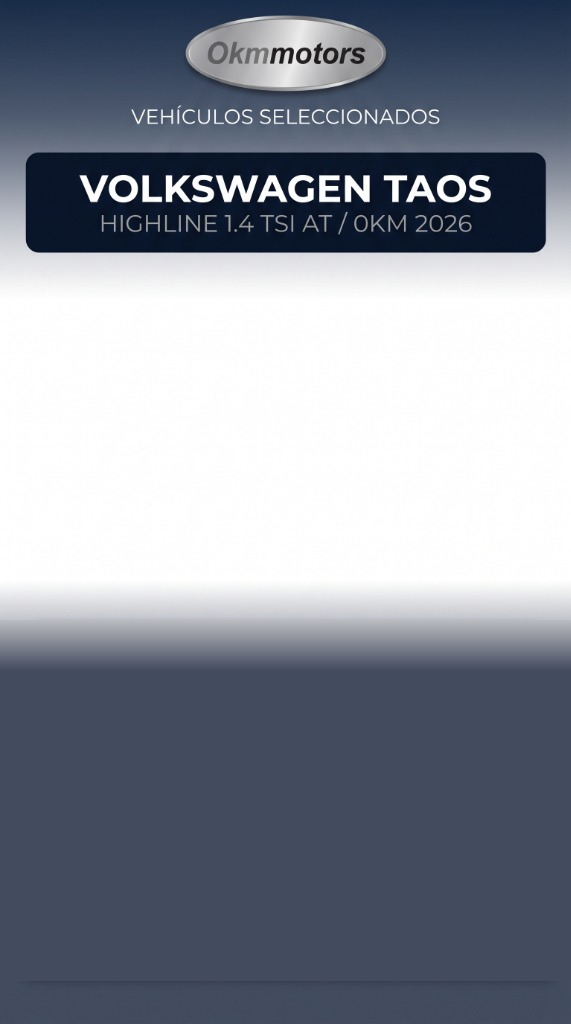
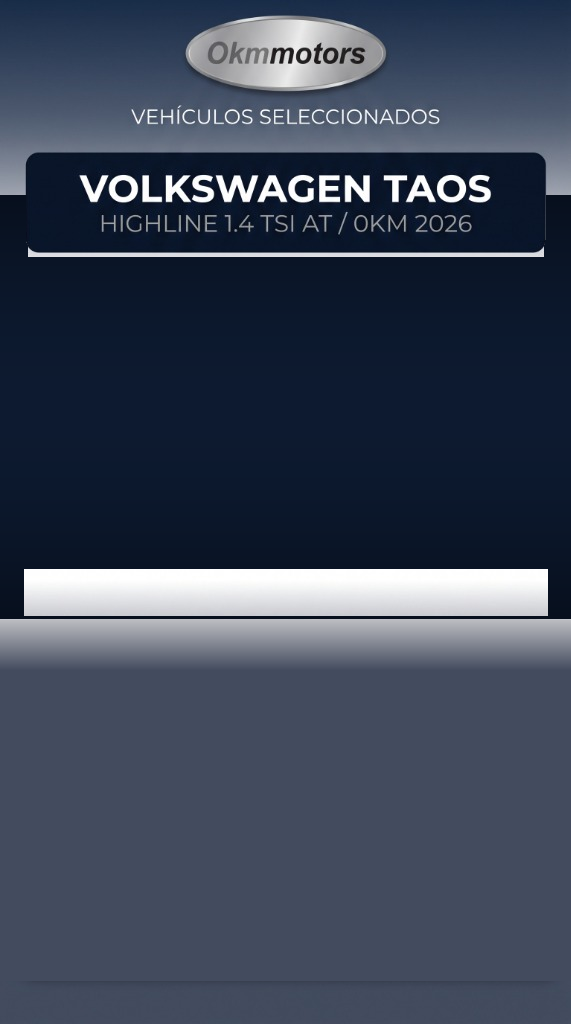
feat(templates): fusion suave y continua sin lineas rectas sobre fondo oscuro continuo de plantilla

diff --git a/src/components/stock/ad-flyer-preview.tsx b/src/components/stock/ad-flyer-preview.tsx
@@ -267,15 +267,15 @@ export const AdFlyerPreview = forwardRef<AdFlyerPreviewHandle, Props>(function A
     // 1. Dibujar la plantilla oficial enviada por el usuario como lienzo base
     ctx.drawImage(baseImg, ox, oy, w, h)
 
-    // 2. Si hay foto del vehículo, dibujarla con expansión y difuminado suave (fade sin líneas de corte)
+    // 2. Si hay foto del vehículo, dibujarla con expansión y difuminado suave (máscara alfa pura sin líneas de corte)
     if (carImg && carImg.naturalWidth > 0) {
       ctx.save()
 
-      // Ventana expandida del auto: de y: 220 a y: 575 (h: 355)
+      // Ventana expandida del auto: de y: 215 a y: 580 (h: 365)
       const slotX = ox
-      const slotY = oy + 220 * sy
+      const slotY = oy + 215 * sy
       const slotW = w
-      const slotH = 355 * sy
+      const slotH = 365 * sy
 
       const imgW = carImg.naturalWidth
       const imgH = carImg.naturalHeight
@@ -293,26 +293,37 @@ export const AdFlyerPreview = forwardRef<AdFlyerPreviewHandle, Props>(function A
       const drawX = slotX + Math.round((slotW - drawW) / 2)
       const drawY = slotY + Math.round((slotH - drawH) / 2)
 
-      // Dibujar auto centrado y expandido
-      ctx.drawImage(carImg, drawX, drawY, drawW, drawH)
+      // Usar canvas temporal con máscara de transparencia gradual pura para fusionar con el fondo oscuro
+      try {
+        const carCanvas = document.createElement('canvas')
+        carCanvas.width = drawW
+        carCanvas.height = drawH
+        const carCtx = carCanvas.getContext('2d')
 
-      // Difuminado suave superior (fade out hacia arriba)
-      const topFadeH = 65 * sy
-      const topFade = ctx.createLinearGradient(0, drawY - 2, 0, drawY + topFadeH)
-      topFade.addColorStop(0, '#070F1D')
-      topFade.addColorStop(0.4, 'rgba(7, 15, 29, 0.75)')
-      topFade.addColorStop(1, 'rgba(7, 15, 29, 0)')
-      ctx.fillStyle = topFade
-      ctx.fillRect(ox, drawY - 4, w, topFadeH + 4)
+        if (carCtx) {
+          carCtx.drawImage(carImg, 0, 0, drawW, drawH)
+          carCtx.globalCompositeOperation = 'destination-in'
 
-      // Difuminado suave inferior (fade out hacia abajo, fundiéndose con la base)
-      const btmFadeH = 65 * sy
-      const btmFade = ctx.createLinearGradient(0, drawY + drawH - btmFadeH, 0, drawY + drawH + 2)
-      btmFade.addColorStop(0, 'rgba(10, 21, 39, 0)')
-      btmFade.addColorStop(0.6, 'rgba(10, 21, 39, 0.75)')
-      btmFade.addColorStop(1, '#0A1527')
-      ctx.fillStyle = btmFade
-      ctx.fillRect(ox, drawY + drawH - btmFadeH, w, btmFadeH + 4)
+          const alphaGrad = carCtx.createLinearGradient(0, 0, 0, drawH)
+          alphaGrad.addColorStop(0, 'rgba(0,0,0,0)')
+          alphaGrad.addColorStop(0.08, 'rgba(0,0,0,0.3)')
+          alphaGrad.addColorStop(0.18, 'rgba(0,0,0,0.8)')
+          alphaGrad.addColorStop(0.28, 'rgba(0,0,0,1)')
+          alphaGrad.addColorStop(0.72, 'rgba(0,0,0,1)')
+          alphaGrad.addColorStop(0.82, 'rgba(0,0,0,0.8)')
+          alphaGrad.addColorStop(0.92, 'rgba(0,0,0,0.3)')
+          alphaGrad.addColorStop(1, 'rgba(0,0,0,0)')
+
+          carCtx.fillStyle = alphaGrad
+          carCtx.fillRect(0, 0, drawW, drawH)
+
+          ctx.drawImage(carCanvas, drawX, drawY)
+        } else {
+          ctx.drawImage(carImg, drawX, drawY, drawW, drawH)
+        }
+      } catch (e) {
+        ctx.drawImage(carImg, drawX, drawY, drawW, drawH)
+      }
 
       ctx.restore()
     }
@@ -947,42 +958,22 @@ export const AdFlyerPreview = forwardRef<AdFlyerPreviewHandle, Props>(function A
                 className="absolute inset-0 w-full h-full object-contain pointer-events-none select-none z-0"
               />
 
-              {/* Foto del auto expandida y fusionada con difuminado suave (fade sin recuadros duros) */}
+              {/* Foto del auto expandida y fusionada con difuminado suave invisible (sin líneas de corte) */}
               {carPhotoUrl && (
-                <>
-                  <div
-                    className="absolute inset-x-0 z-[2] flex items-center justify-center pointer-events-none select-none overflow-hidden"
-                    style={{
-                      top: '21.5%',
-                      height: '35.5%',
-                      maskImage: 'linear-gradient(to bottom, transparent 0%, rgba(0,0,0,0.85) 10%, black 20%, black 80%, rgba(0,0,0,0.85) 90%, transparent 100%)',
-                      WebkitMaskImage: 'linear-gradient(to bottom, transparent 0%, rgba(0,0,0,0.85) 10%, black 20%, black 80%, rgba(0,0,0,0.85) 90%, transparent 100%)'
-                    }}>
-                    <img
-                      src={carPhotoUrl}
-                      alt={fields.title}
-                      className="w-full h-full object-contain object-center scale-105"
-                    />
-                  </div>
-                  {/* Gradiente de fusión suave superior */}
-                  <div
-                    className="absolute inset-x-0 pointer-events-none z-[3]"
-                    style={{
-                      top: '21.0%',
-                      height: '6.5%',
-                      background: 'linear-gradient(to bottom, #070F1D 0%, rgba(7, 15, 29, 0.75) 45%, transparent 100%)'
-                    }}
+                <div
+                  className="absolute inset-x-0 z-[2] flex items-center justify-center pointer-events-none select-none overflow-hidden"
+                  style={{
+                    top: '21.0%',
+                    height: '36.5%',
+                    maskImage: 'linear-gradient(180deg, transparent 0%, rgba(0,0,0,0.3) 6%, rgba(0,0,0,0.85) 16%, black 28%, black 72%, rgba(0,0,0,0.85) 84%, rgba(0,0,0,0.3) 94%, transparent 100%)',
+                    WebkitMaskImage: 'linear-gradient(180deg, transparent 0%, rgba(0,0,0,0.3) 6%, rgba(0,0,0,0.85) 16%, black 28%, black 72%, rgba(0,0,0,0.85) 84%, rgba(0,0,0,0.3) 94%, transparent 100%)'
+                  }}>
+                  <img
+                    src={carPhotoUrl}
+                    alt={fields.title}
+                    className="w-full h-full object-contain object-center scale-105"
                   />
-                  {/* Gradiente de fusión suave inferior */}
-                  <div
-                    className="absolute inset-x-0 pointer-events-none z-[3]"
-                    style={{
-                      top: '51.5%',
-                      height: '6.0%',
-                      background: 'linear-gradient(to top, #0A1527 0%, rgba(10, 21, 39, 0.75) 45%, transparent 100%)'
-                    }}
-                  />
-                </>
+                </div>
               )}
 
               {/* In-place editable inputs overlay */}
@@ -1006,42 +997,22 @@ export const AdFlyerPreview = forwardRef<AdFlyerPreviewHandle, Props>(function A
               style={{ width: '280px', height: '502px' }}
             />
 
-            {/* Foto del auto expandida y fusionada con difuminado suave (fade sin recuadros duros) */}
+            {/* Foto del auto expandida y fusionada con difuminado suave invisible (sin líneas de corte) */}
             {carPhotoUrl && (
-              <>
-                <div
-                  className="absolute inset-x-0 z-[2] flex items-center justify-center pointer-events-none select-none overflow-hidden"
-                  style={{
-                    top: '21.5%',
-                    height: '35.5%',
-                    maskImage: 'linear-gradient(to bottom, transparent 0%, rgba(0,0,0,0.85) 10%, black 20%, black 80%, rgba(0,0,0,0.85) 90%, transparent 100%)',
-                    WebkitMaskImage: 'linear-gradient(to bottom, transparent 0%, rgba(0,0,0,0.85) 10%, black 20%, black 80%, rgba(0,0,0,0.85) 90%, transparent 100%)'
-                  }}>
-                  <img
-                    src={carPhotoUrl}
-                    alt={fields.title}
-                    className="w-full h-full object-contain object-center scale-105"
-                  />
-                </div>
-                {/* Gradiente de fusión suave superior */}
-                <div
-                  className="absolute inset-x-0 pointer-events-none z-[3]"
-                  style={{
-                    top: '21.0%',
-                    height: '6.5%',
-                    background: 'linear-gradient(to bottom, #070F1D 0%, rgba(7, 15, 29, 0.75) 45%, transparent 100%)'
-                  }}
+              <div
+                className="absolute inset-x-0 z-[2] flex items-center justify-center pointer-events-none select-none overflow-hidden"
+                style={{
+                  top: '21.0%',
+                  height: '36.5%',
+                  maskImage: 'linear-gradient(180deg, transparent 0%, rgba(0,0,0,0.3) 6%, rgba(0,0,0,0.85) 16%, black 28%, black 72%, rgba(0,0,0,0.85) 84%, rgba(0,0,0,0.3) 94%, transparent 100%)',
+                  WebkitMaskImage: 'linear-gradient(180deg, transparent 0%, rgba(0,0,0,0.3) 6%, rgba(0,0,0,0.85) 16%, black 28%, black 72%, rgba(0,0,0,0.85) 84%, rgba(0,0,0,0.3) 94%, transparent 100%)'
+                }}>
+                <img
+                  src={carPhotoUrl}
+                  alt={fields.title}
+                  className="w-full h-full object-contain object-center scale-105"
                 />
-                {/* Gradiente de fusión suave inferior */}
-                <div
-                  className="absolute inset-x-0 pointer-events-none z-[3]"
-                  style={{
-                    top: '51.5%',
-                    height: '6.0%',
-                    background: 'linear-gradient(to top, #0A1527 0%, rgba(10, 21, 39, 0.75) 45%, transparent 100%)'
-                  }}
-                />
-              </>
+              </div>
             )}
 
             {/* In-place editable inputs overlay */}

diff --git a/src/app/api/stock/generate-flyer/route.ts b/src/app/api/stock/generate-flyer/route.ts
@@ -52,42 +52,46 @@ export async function POST(req: NextRequest) {
     const templatePath = path.join(process.cwd(), 'public', 'templates', 'plantilla_universal_clean.png')
     const templateBuffer = fs.readFileSync(templatePath)
 
-    // Redimensionar foto del auto expandida (y: 220..575, h: 355)
+    // Redimensionar foto del auto expandida (y: 215..580, h: 365)
     const carResized = await sharp(bgBuffer)
-      .resize(W, 355, { fit: 'contain', background: { r: 7, g: 15, b: 29, alpha: 0 } })
+      .resize(W, 365, { fit: 'contain', background: { r: 7, g: 15, b: 29, alpha: 0 } })
       .toBuffer()
 
-    // Gradientes de fusión suave para eliminar recuadros duros
-    const fadeSvg = Buffer.from(`
-      <svg width="${W}" height="355" viewBox="0 0 ${W} 355" xmlns="http://www.w3.org/2000/svg">
+    // Máscara de transparencia suave continua en alfa puro (sin líneas de corte)
+    const maskSvg = Buffer.from(`
+      <svg width="${W}" height="365" viewBox="0 0 ${W} 365" xmlns="http://www.w3.org/2000/svg">
         <defs>
-          <linearGradient id="topFade" x1="0" y1="0" x2="0" y2="1">
-            <stop offset="0%" stop-color="#070F1D" stop-opacity="0.95"/>
-            <stop offset="40%" stop-color="#070F1D" stop-opacity="0.6"/>
-            <stop offset="100%" stop-color="#070F1D" stop-opacity="0"/>
-          </linearGradient>
-          <linearGradient id="btmFade" x1="0" y1="0" x2="0" y2="1">
-            <stop offset="0%" stop-color="#0A1527" stop-opacity="0"/>
-            <stop offset="60%" stop-color="#0A1527" stop-opacity="0.6"/>
-            <stop offset="100%" stop-color="#0A1527" stop-opacity="0.95"/>
+          <linearGradient id="softMask" x1="0" y1="0" x2="0" y2="1">
+            <stop offset="0%" stop-color="#000000" stop-opacity="0"/>
+            <stop offset="8%" stop-color="#000000" stop-opacity="0.3"/>
+            <stop offset="18%" stop-color="#000000" stop-opacity="0.85"/>
+            <stop offset="28%" stop-color="#000000" stop-opacity="1"/>
+            <stop offset="72%" stop-color="#000000" stop-opacity="1"/>
+            <stop offset="82%" stop-color="#000000" stop-opacity="0.85"/>
+            <stop offset="92%" stop-color="#000000" stop-opacity="0.3"/>
+            <stop offset="100%" stop-color="#000000" stop-opacity="0"/>
           </linearGradient>
         </defs>
-        <rect x="0" y="0" width="${W}" height="65" fill="url(#topFade)"/>
-        <rect x="0" y="290" width="${W}" height="65" fill="url(#btmFade)"/>
+        <rect x="0" y="0" width="${W}" height="365" fill="url(#softMask)"/>
       </svg>
     `)
 
-    // Montar foto del auto expandida y con difuminado suave sobre la plantilla
+    let carWithFade = carResized
+    try {
+      carWithFade = await sharp(carResized)
+        .composite([{ input: maskSvg, blend: 'dest-in' }])
+        .png()
+        .toBuffer()
+    } catch (e) {
+      console.warn('Error applying alpha mask to car in route:', e)
+    }
+
+    // Montar foto del auto expandida y con difuminado suave sobre la plantilla oscura
     const resizedBg = await sharp(templateBuffer)
       .composite([
         {
-          input: carResized,
-          top: 220,
-          left: 0
-        },
-        {
-          input: fadeSvg,
-          top: 220,
+          input: carWithFade,
+          top: 215,
           left: 0
         }
       ])
